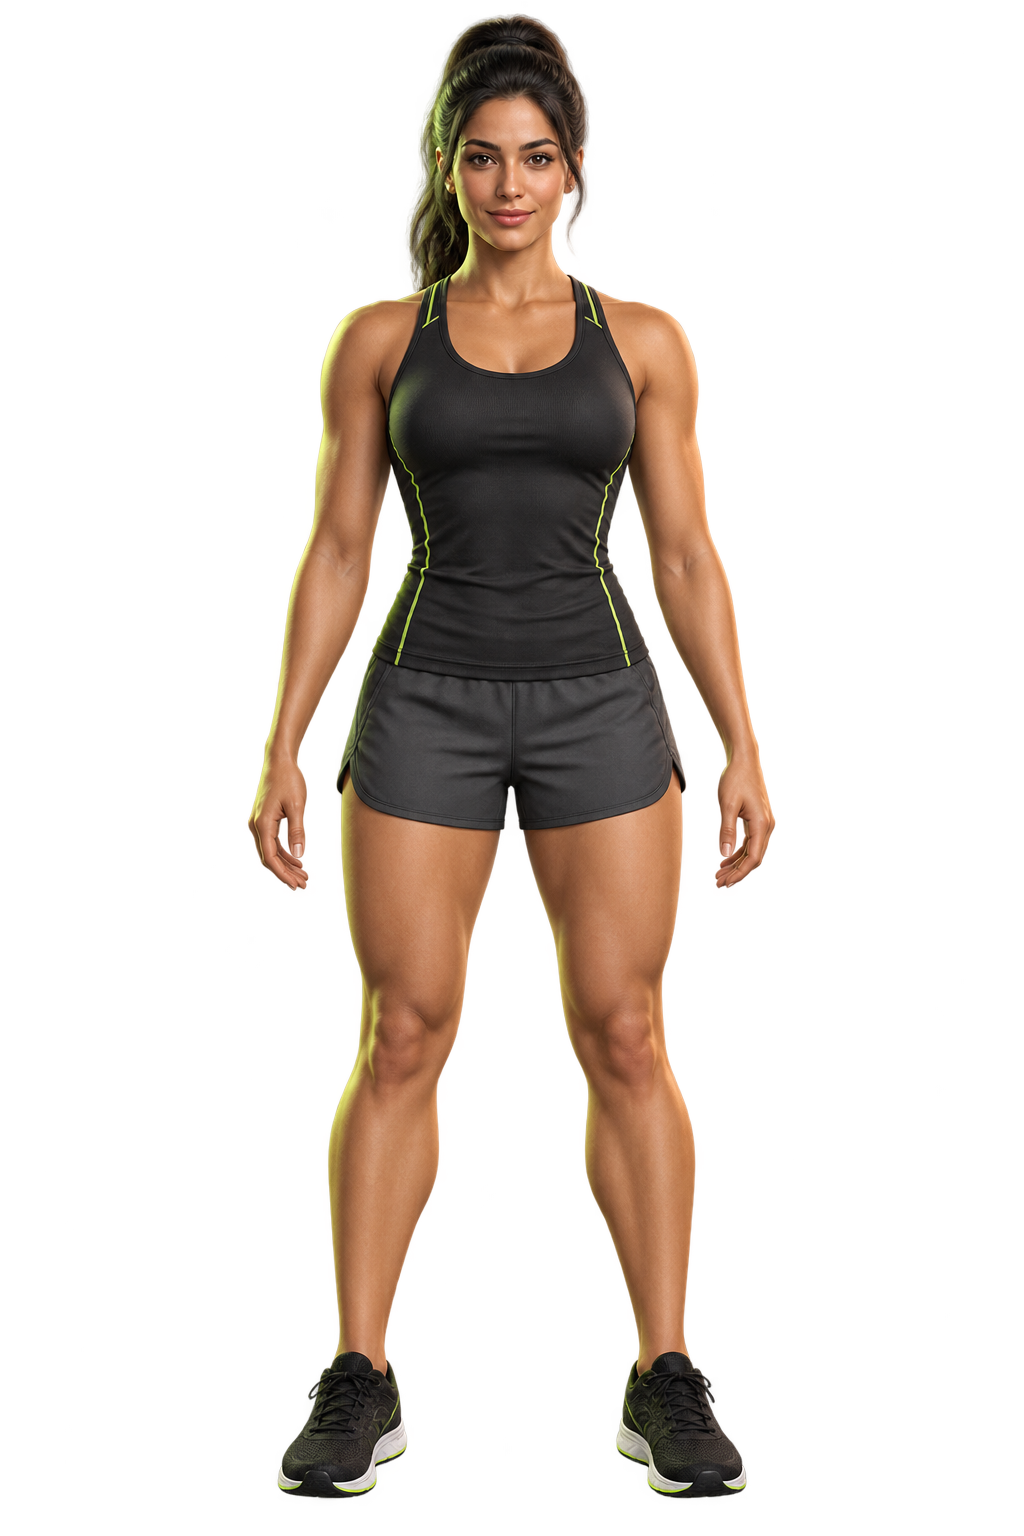
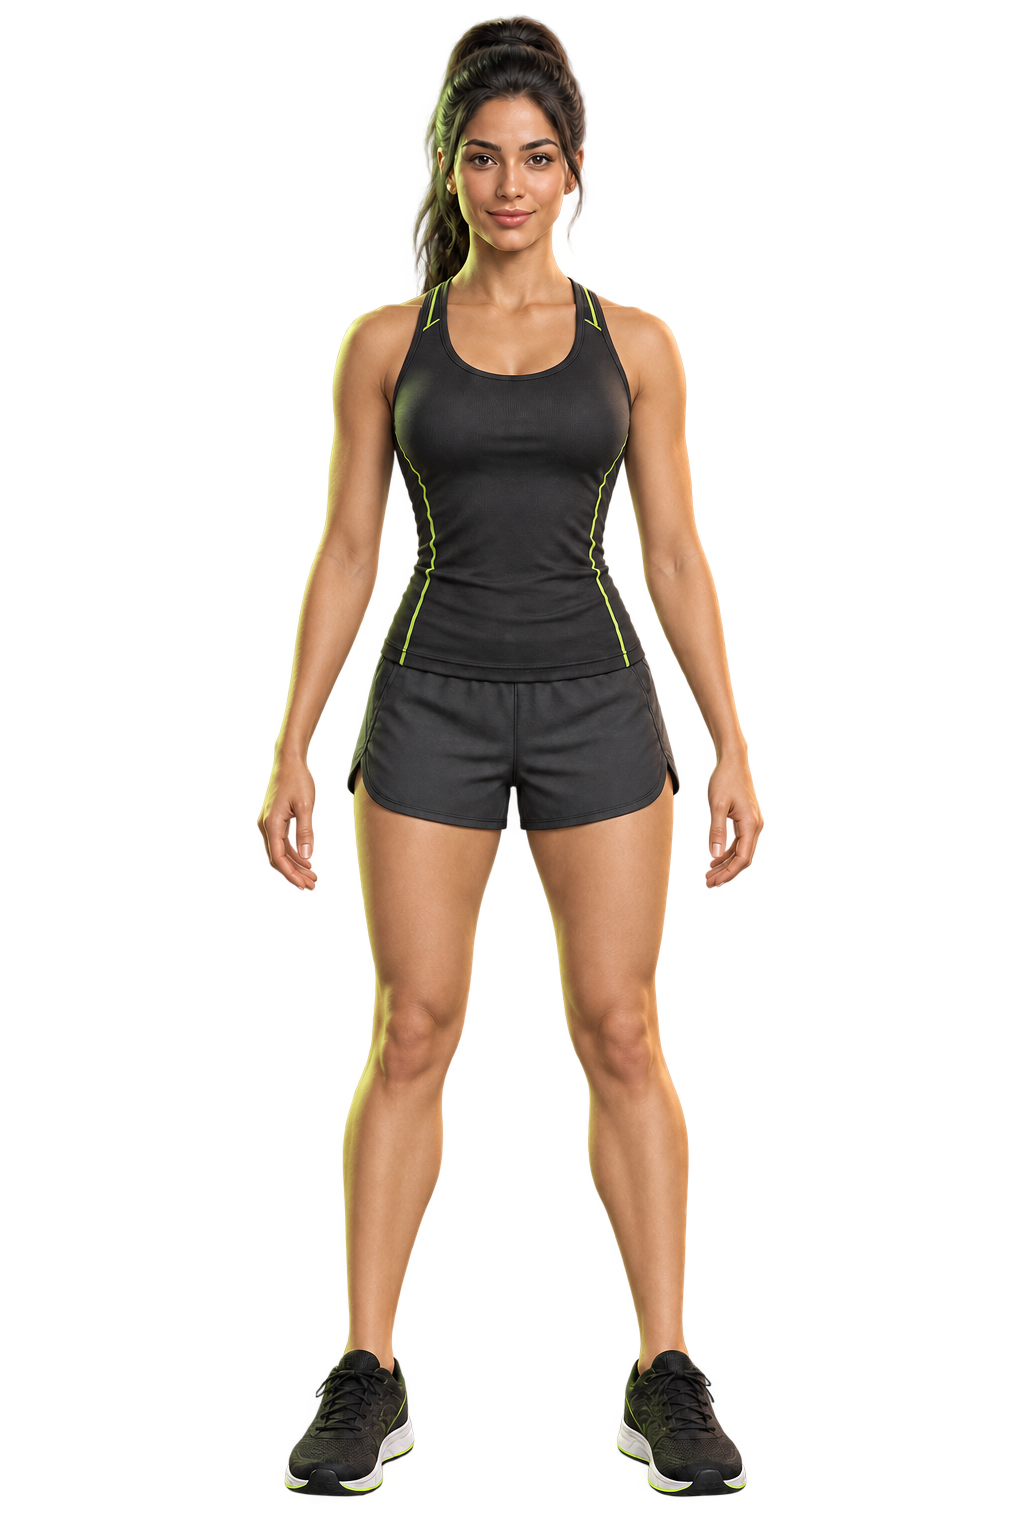
changed female male body types

diff --git a/mobile/src/components/avatar-stage.tsx b/mobile/src/components/avatar-stage.tsx
@@ -4,6 +4,7 @@ import { useEffect } from 'react';
 import { StyleSheet, View } from 'react-native';
 import Animated, {
   Easing,
+  Extrapolation,
   interpolate,
   useAnimatedStyle,
   useReducedMotion,
@@ -28,17 +29,23 @@ export type AvatarStageProps = {
 
 const ATHLETES = {
   male: {
-    source: require('../../assets/art/athlete-male.png'),
+    lean: require('../../assets/art/athlete-male-lean.png'),
+    neutral: require('../../assets/art/athlete-male.png'),
+    build: require('../../assets/art/athlete-male-build.png'),
     accent: palette.lime,
     glow: '#95D629',
   },
   female: {
-    source: require('../../assets/art/athlete-female.png'),
+    lean: require('../../assets/art/athlete-female-lean.png'),
+    neutral: require('../../assets/art/athlete-female.png'),
+    build: require('../../assets/art/athlete-female-build.png'),
     accent: '#E8FF80',
     glow: '#C8EB46',
   },
   other: {
-    source: require('../../assets/art/athlete-other.png'),
+    lean: require('../../assets/art/athlete-other-lean.png'),
+    neutral: require('../../assets/art/athlete-other.png'),
+    build: require('../../assets/art/athlete-other-build.png'),
     accent: palette.blue,
     glow: '#437BE8',
   },
@@ -48,10 +55,9 @@ function clamp(value: number) {
   return Math.max(0, Math.min(1, value));
 }
 
-function bodyShapeProgress(heightCm: number, weightKg: number) {
-  const heightMetres = heightCm / 100;
-  const bmi = weightKg / (heightMetres * heightMetres);
-  return clamp((bmi - 18) / 17);
+function bodyGoalProgress(currentWeightKg: number, goalWeightKg: number) {
+  const percentageChange = (goalWeightKg - currentWeightKg) / Math.max(currentWeightKg, 1);
+  return Math.max(-1, Math.min(1, percentageChange / 0.15));
 }
 
 function goalCopy(currentWeightKg: number, goalWeightKg: number) {
@@ -65,7 +71,7 @@ const HEIGHT_TICKS = [0, 1, 2, 3, 4, 5];
 
 export function AvatarStage({ gender, heightCm, currentWeightKg, goalWeightKg }: AvatarStageProps) {
   const heightProgress = useSharedValue(clamp((heightCm - 140) / 80));
-  const bodyProgress = useSharedValue(bodyShapeProgress(heightCm, goalWeightKg));
+  const bodyProgress = useSharedValue(bodyGoalProgress(currentWeightKg, goalWeightKg));
   const idleProgress = useSharedValue(0);
   const reduceMotion = useReducedMotion();
   const athlete = ATHLETES[gender];
@@ -79,11 +85,11 @@ export function AvatarStage({ gender, heightCm, currentWeightKg, goalWeightKg }:
   }, [heightCm, heightProgress, reduceMotion]);
 
   useEffect(() => {
-    const target = bodyShapeProgress(heightCm, goalWeightKg);
+    const target = bodyGoalProgress(currentWeightKg, goalWeightKg);
     bodyProgress.value = reduceMotion
       ? target
       : withSpring(target, { damping: 19, stiffness: 112, mass: 0.9 });
-  }, [heightCm, goalWeightKg, bodyProgress, reduceMotion]);
+  }, [currentWeightKg, goalWeightKg, bodyProgress, reduceMotion]);
 
   useEffect(() => {
     if (reduceMotion) {
@@ -102,11 +108,23 @@ export function AvatarStage({ gender, heightCm, currentWeightKg, goalWeightKg }:
   }, [idleProgress, reduceMotion]);
 
   const figureStyle = useAnimatedStyle(() => ({
-    height: interpolate(heightProgress.value, [0, 1], [250, 318]),
+    width: interpolate(heightProgress.value, [0, 1], [172, 222]),
+    height: interpolate(heightProgress.value, [0, 1], [258, 333]),
     transform: [
       { translateY: interpolate(idleProgress.value, [0, 1], [0, -4]) },
-      { scaleX: interpolate(bodyProgress.value, [0, 0.5, 1], [0.87, 1, 1.13]) },
     ],
+  }));
+
+  const leanStyle = useAnimatedStyle(() => ({
+    opacity: interpolate(bodyProgress.value, [-1, 0], [1, 0], Extrapolation.CLAMP),
+  }));
+
+  const neutralStyle = useAnimatedStyle(() => ({
+    opacity: interpolate(bodyProgress.value, [-1, 0, 1], [0, 1, 0], Extrapolation.CLAMP),
+  }));
+
+  const buildStyle = useAnimatedStyle(() => ({
+    opacity: interpolate(bodyProgress.value, [0, 1], [0, 1], Extrapolation.CLAMP),
   }));
 
   const auraStyle = useAnimatedStyle(() => ({
@@ -165,7 +183,15 @@ export function AvatarStage({ gender, heightCm, currentWeightKg, goalWeightKg }:
 
         <Animated.View pointerEvents="none" style={[styles.scanLine, { backgroundColor: athlete.accent }, scanStyle]} />
         <Animated.View style={[styles.figure, figureStyle]}>
-          <Image source={athlete.source} style={styles.athleteImage} contentFit="contain" />
+          <Animated.View style={[styles.variantLayer, leanStyle]}>
+            <Image source={athlete.lean} style={styles.athleteImage} contentFit="contain" />
+          </Animated.View>
+          <Animated.View style={[styles.variantLayer, neutralStyle]}>
+            <Image source={athlete.neutral} style={styles.athleteImage} contentFit="contain" />
+          </Animated.View>
+          <Animated.View style={[styles.variantLayer, buildStyle]}>
+            <Image source={athlete.build} style={styles.athleteImage} contentFit="contain" />
+          </Animated.View>
         </Animated.View>
       </View>
 
@@ -332,8 +358,14 @@ const styles = StyleSheet.create({
     shadowRadius: 8,
   },
   figure: {
-    width: 222,
     zIndex: 3,
+  },
+  variantLayer: {
+    position: 'absolute',
+    top: 0,
+    right: 0,
+    bottom: 0,
+    left: 0,
   },
   athleteImage: {
     width: '100%',
